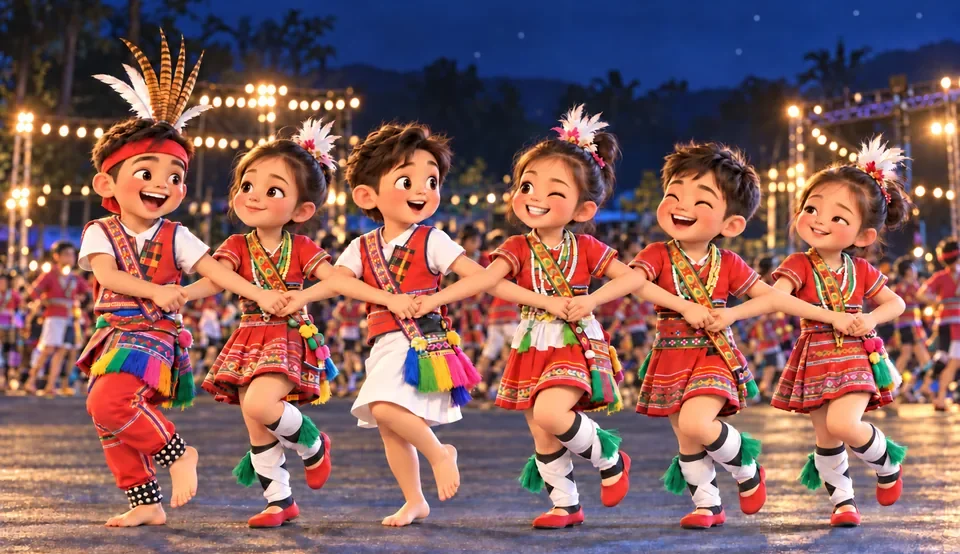
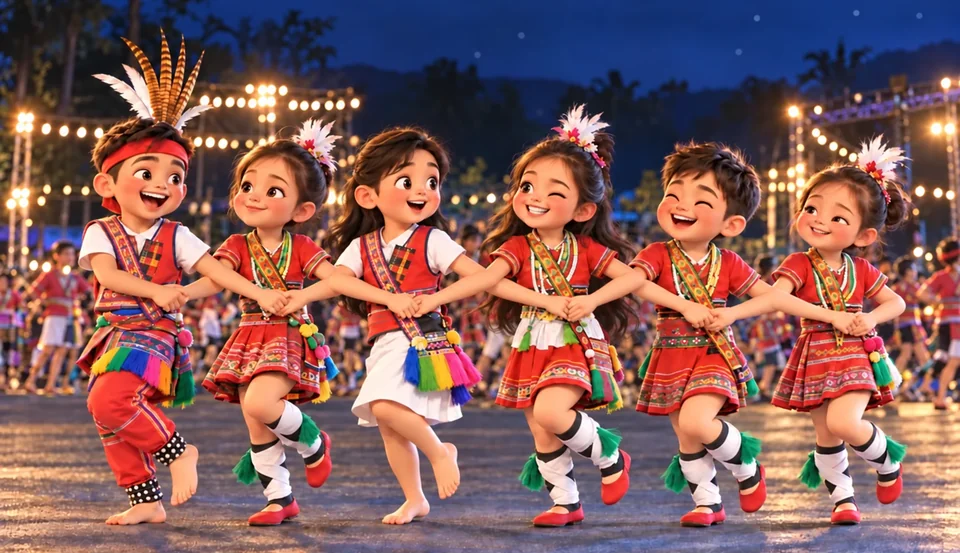
Publish latest homepage and dance image

diff --git a/index.html b/index.html
@@ -360,7 +360,7 @@
         </div>
       </div>
       <div class="info-card">
-        <h3>重要資訊<br>
+        <h3>
           賽事日期：2026年12月6日（日）<br>
           賽事地點：國立東華大學<br>
         </h3>
